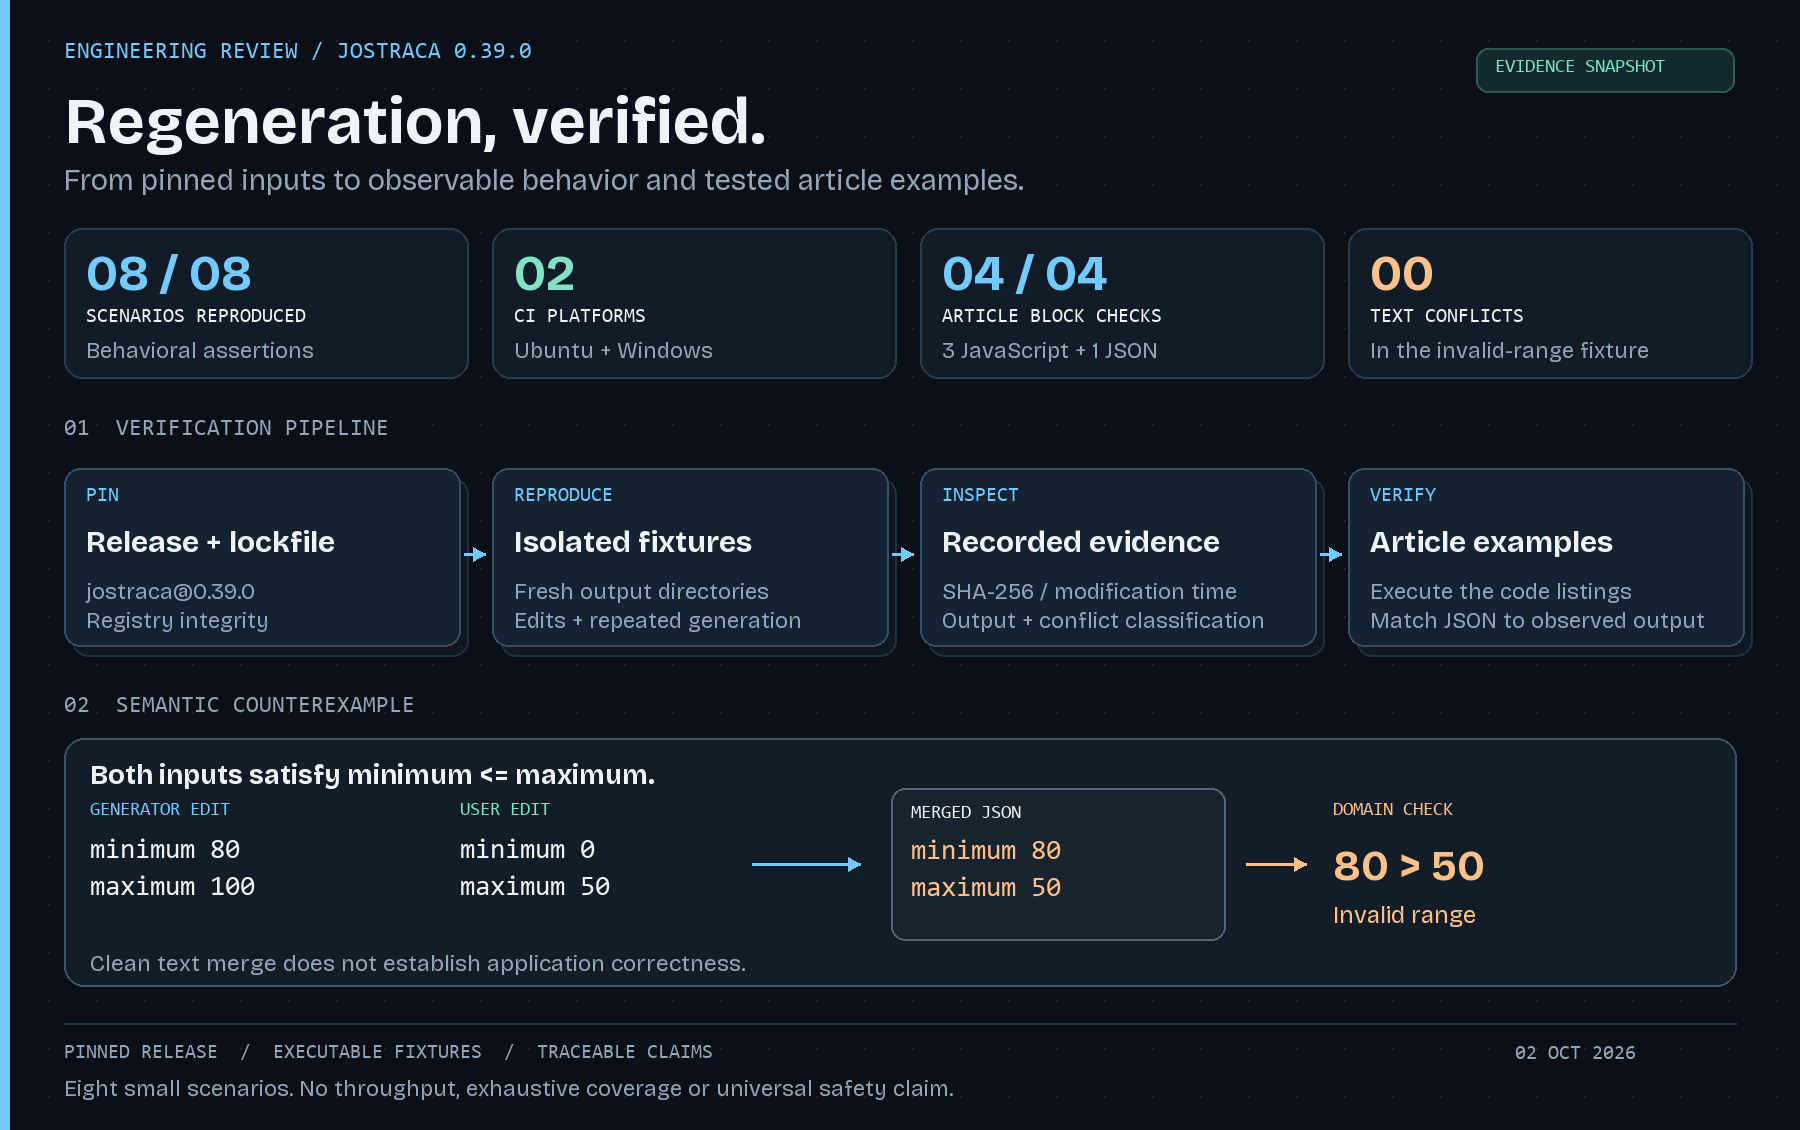
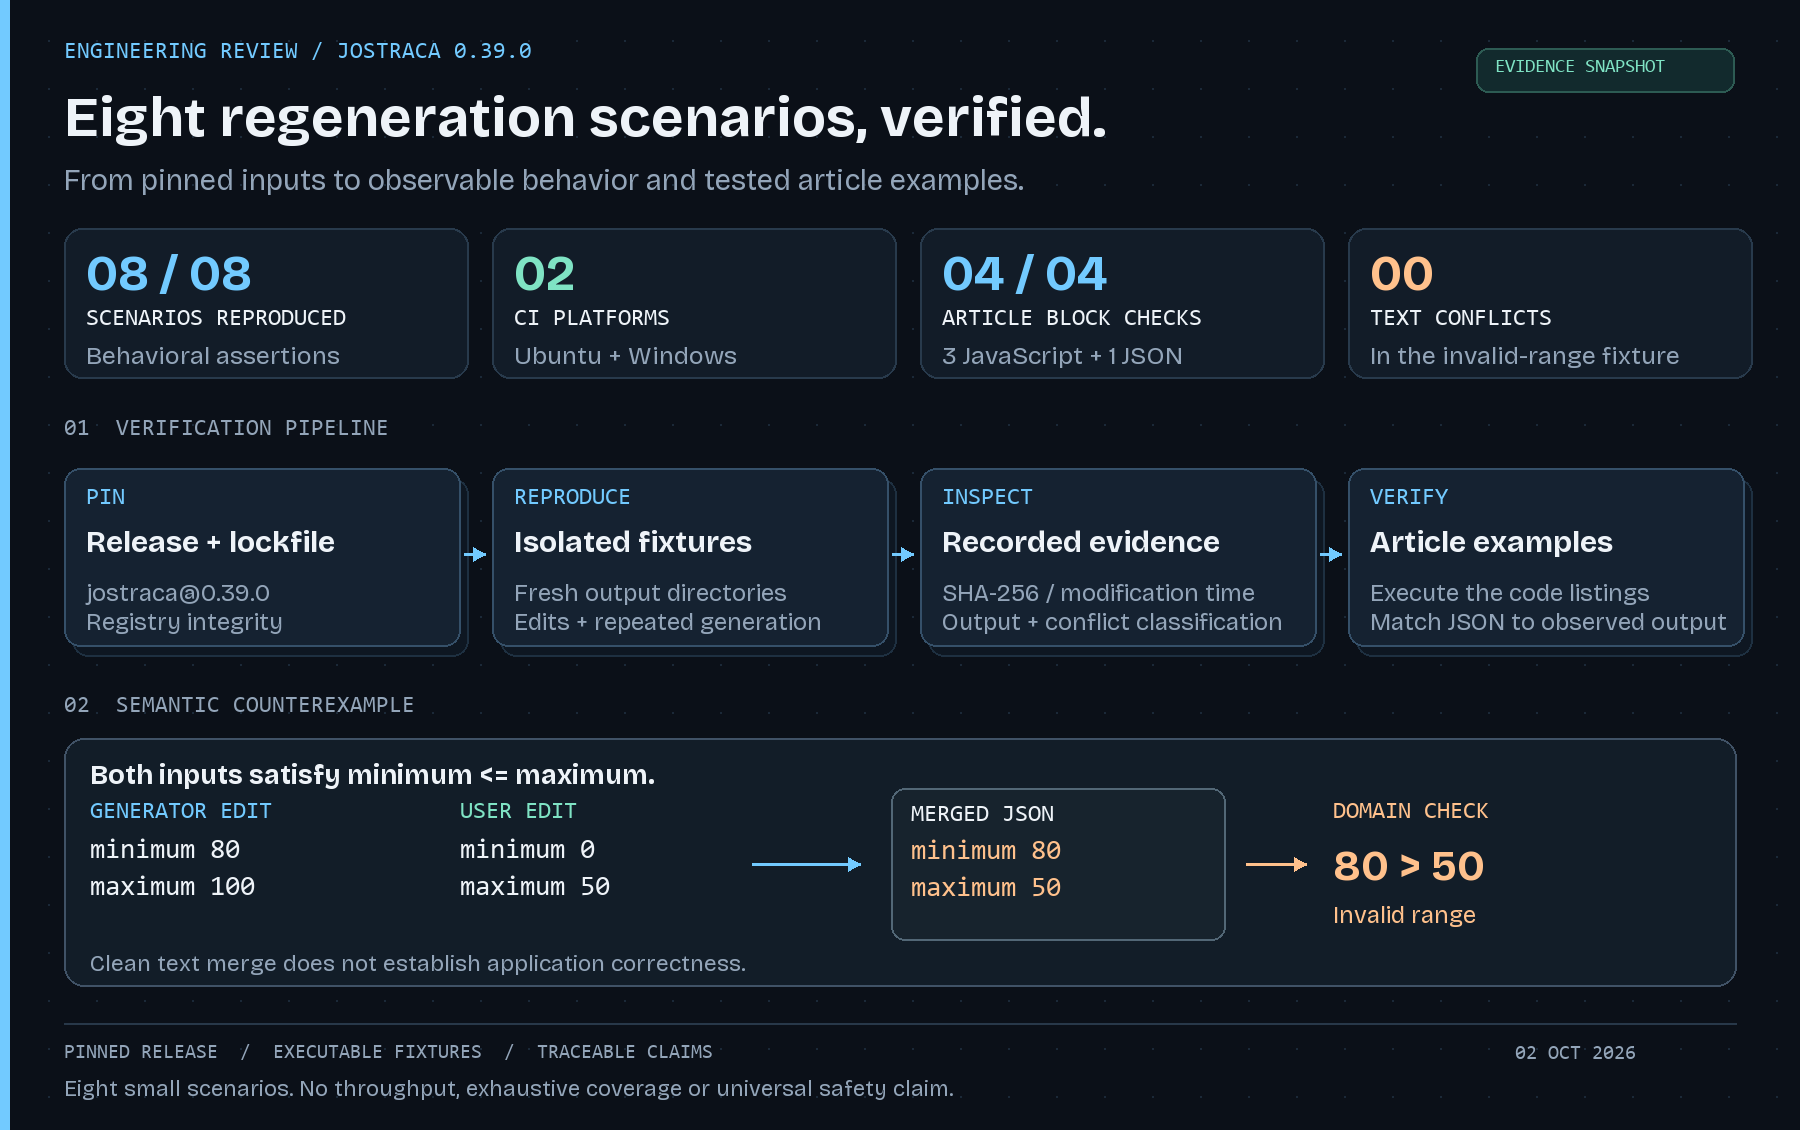
docs: scope verification headline and improve visual legibility

diff --git a/docs/assets/DESIGN.md b/docs/assets/DESIGN.md
@@ -7,3 +7,5 @@ Cyan identifies reproducible operations, green identifies verified execution env
 Large figures introduce a small set of measured outcomes. Compact monospaced labels connect those figures to the underlying experiments. Careful typographic hierarchy makes the visual readable at README width and at full resolution.
 
 The counterexample occupies a separate plane so the reader can distinguish passing behavioral assertions from valid application output. The image is a dated evidence snapshot, not a live dashboard or a claim of exhaustive coverage. Precision in wording is part of the visual design.
+
+The headline explicitly limits verification to eight regeneration scenarios. Enlarged card labels and captions support reading the overview at typical README widths; the linked evidence remains the text-based reference for the measurements.
